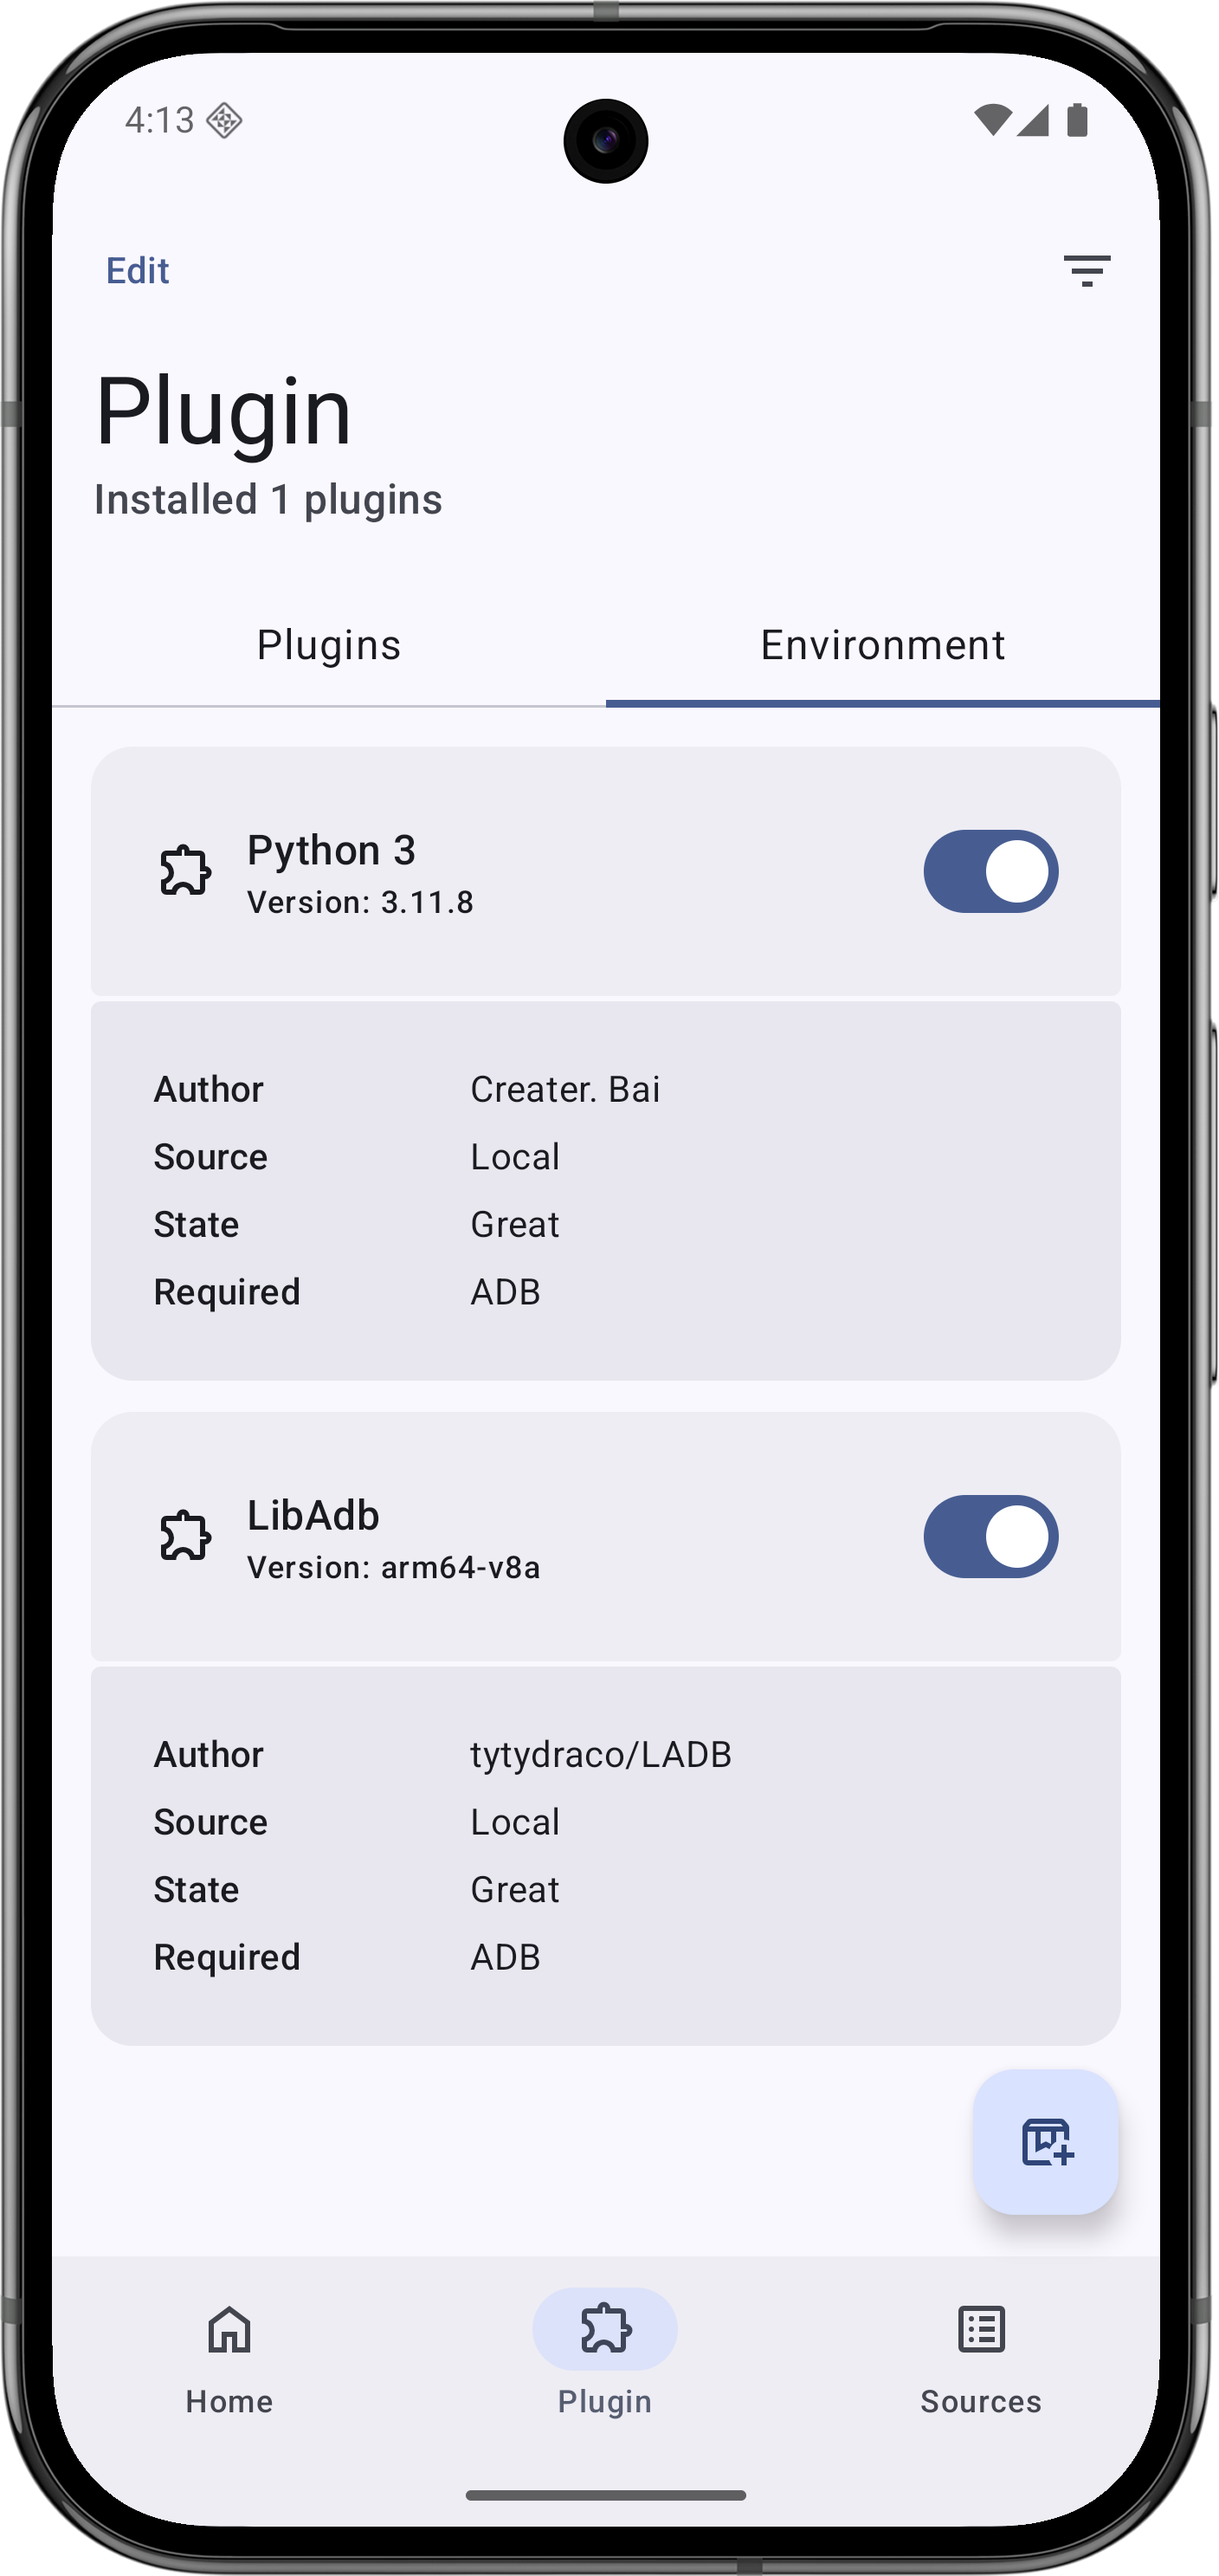
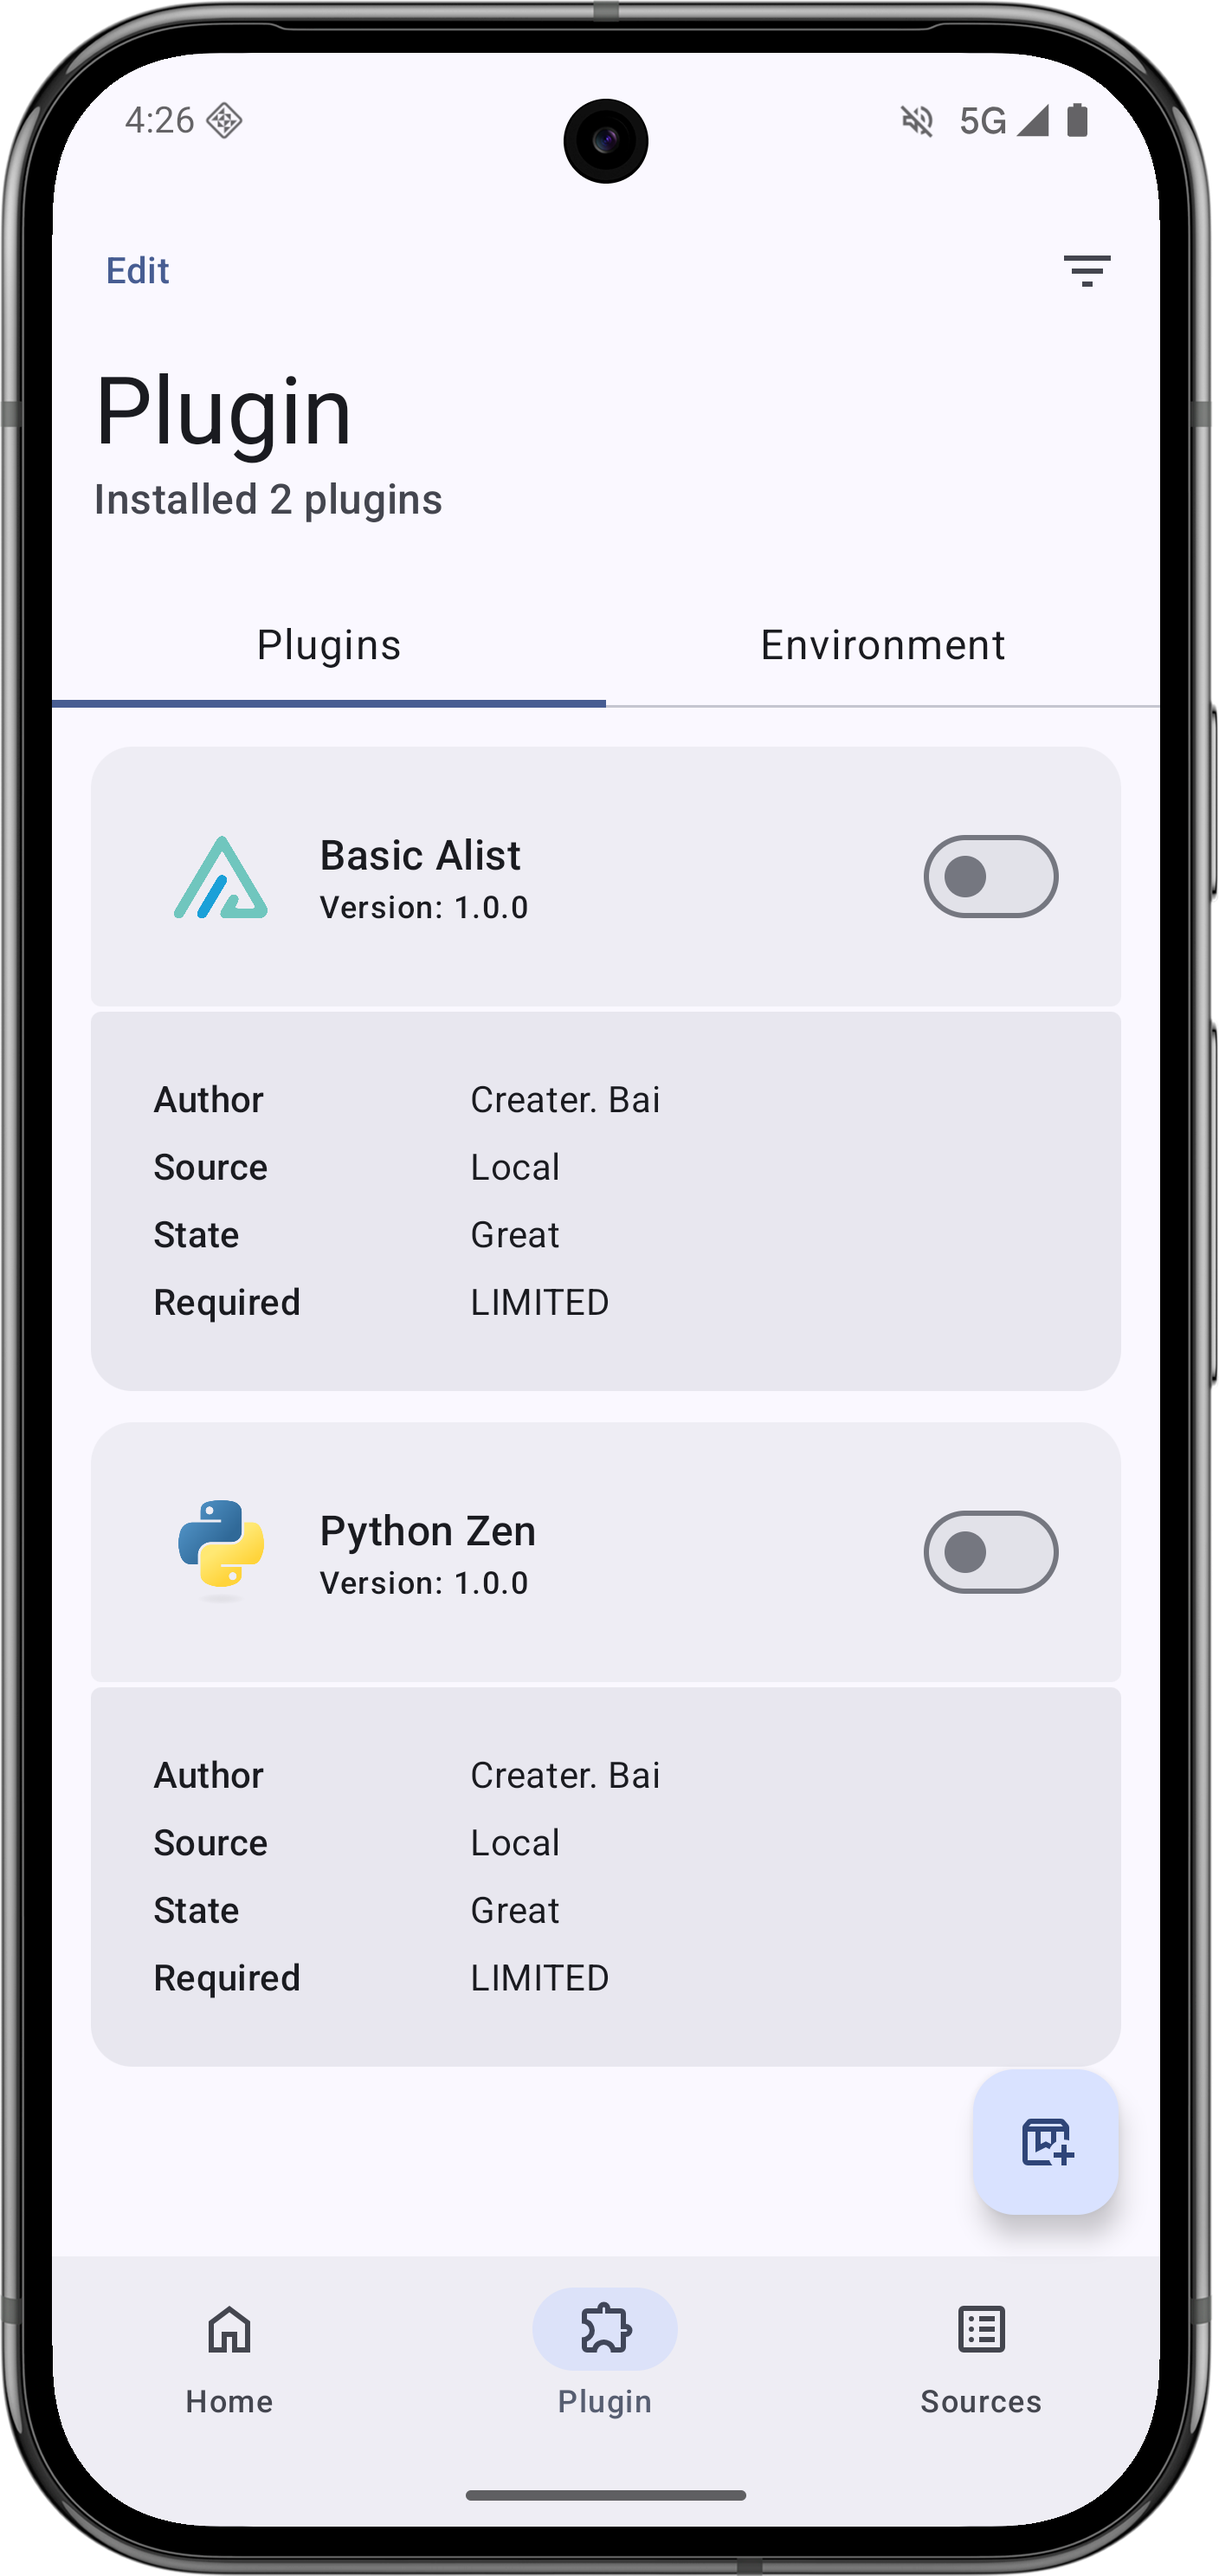
docs(readme): Refresh project screenshots and roadmap
Update README preview screenshots with the current app screens.

Refresh the English and Chinese roadmap to match recent project progress.

diff --git a/README.md b/README.md
@@ -9,8 +9,8 @@ An open-source, rootless plugin management and runtime platform for the Android 
     <img src="/asset/picture/HomeScreen.png" width="32%" />
     <img src="/asset/picture/PluginScreen.png" width="32%" />
     <img src="/asset/picture/MarketScreen.png" width="32%" />
+    <img src="/asset/picture/SettingScreen.png" width="32%" />
     <img src="/asset/picture/ExecuteScreen.png" width="32%" />
-    <img src="/asset/picture/AdbShizukuScreen.png" width="32%" />
     <img src="/asset/picture/ShellScreen.png" width="32%" />
 </p>
 
@@ -43,8 +43,19 @@ It stands on three core principles:
 - [x] Establish the basic interfaces for Source and Market
 - [x] Build the initial runtime plugin development documentation
 - [x] Improve the Market and plugin detail UI
-- [ ] Improve filtering, state feedback, and permission boundaries
+- [x] Support for plugin kill notification
+- [x] Third-party Notification Pushing
+- [x] More personalized plugins
+- [x] Daemon fully supports
+- [x] Plugin status transition cleaning
+- [x] Support Preference Panel
 - [x] Support private sources, invisible sources, and paid sources
+- [ ] Shell code snippet support
+- [ ] Magisk Plugin Compatibility Layer
+- [ ] Quick launch tile of the Android Control Center
+- [ ] Host status panel， More Expressive
+- [ ] A more intuitive demonstration of plugin execution methods
+- [ ] Improve filtering, state feedback, and permission boundaries
 - [ ] Publish to F-Droid
 
 ## Why I Built Rootless Store

diff --git a/asset/markdown/readme/README_zh-CN.md b/asset/markdown/readme/README_zh-CN.md
@@ -43,9 +43,20 @@ Rootless Store 想做的，不只是一个“装插件”的工具。
 - [x] 建立 Source 与 Market 的基础接口
 - [x] 建立运行时插件开发文档
 - [x] 完善 Market 与插件详情UI更新
-- [ ] 完善过滤、状态反馈与权限边界
+- [x] 支持插件终止通知
+- [x] 第三方通知推送
+- [x] 更多个性化插件
+- [x] Daemon 完整支持
+- [x] 插件状态切换清理
+- [x] 支持偏好设置面板
 - [x] 支持私有源、不可见源与付费源
-- [ ] 接入F-Droid
+- [ ] Shell 代码片段支持
+- [ ] Magisk 插件兼容层
+- [ ] 安卓控制中心快捷启动磁贴
+- [ ] 更具表现力的 Host 状态面板
+- [ ] 更直观展示插件执行方式
+- [ ] 完善过滤、状态反馈与权限边界
+- [ ] 发布到 F-Droid
 
 ## 为什么我做了 Rootless Store？
 
